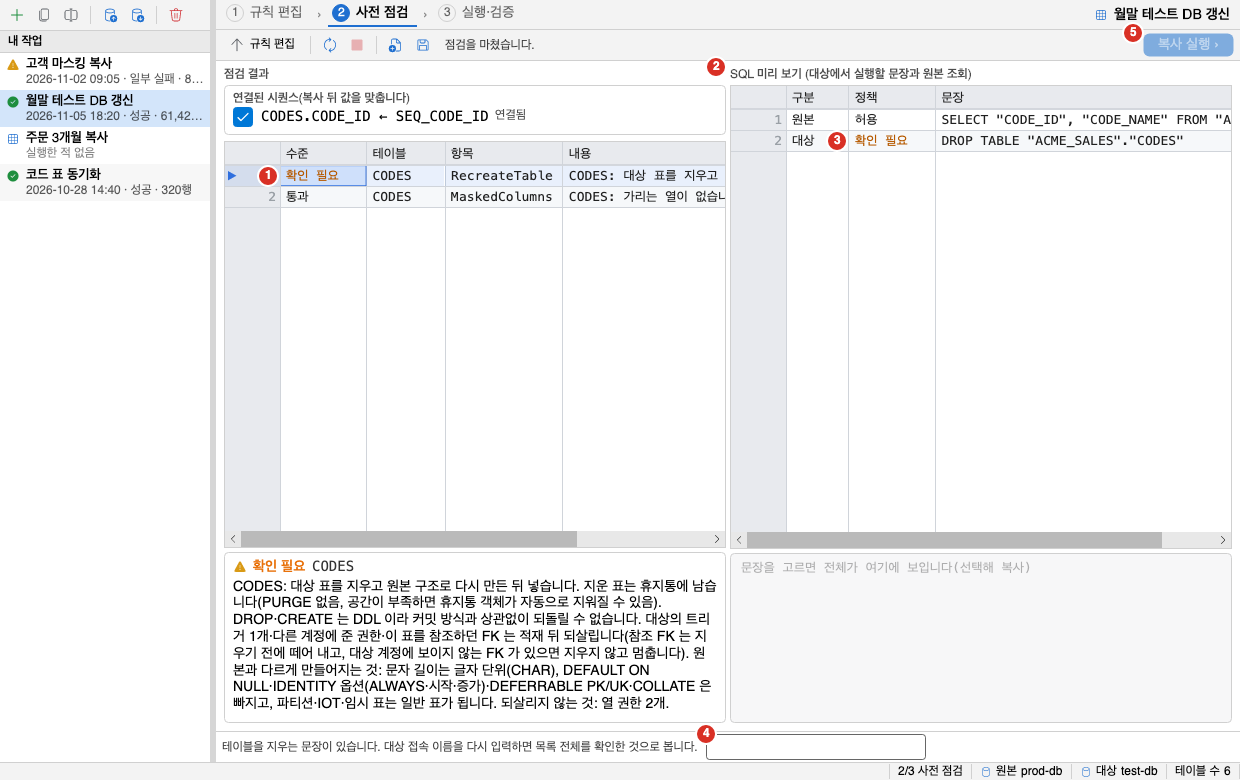
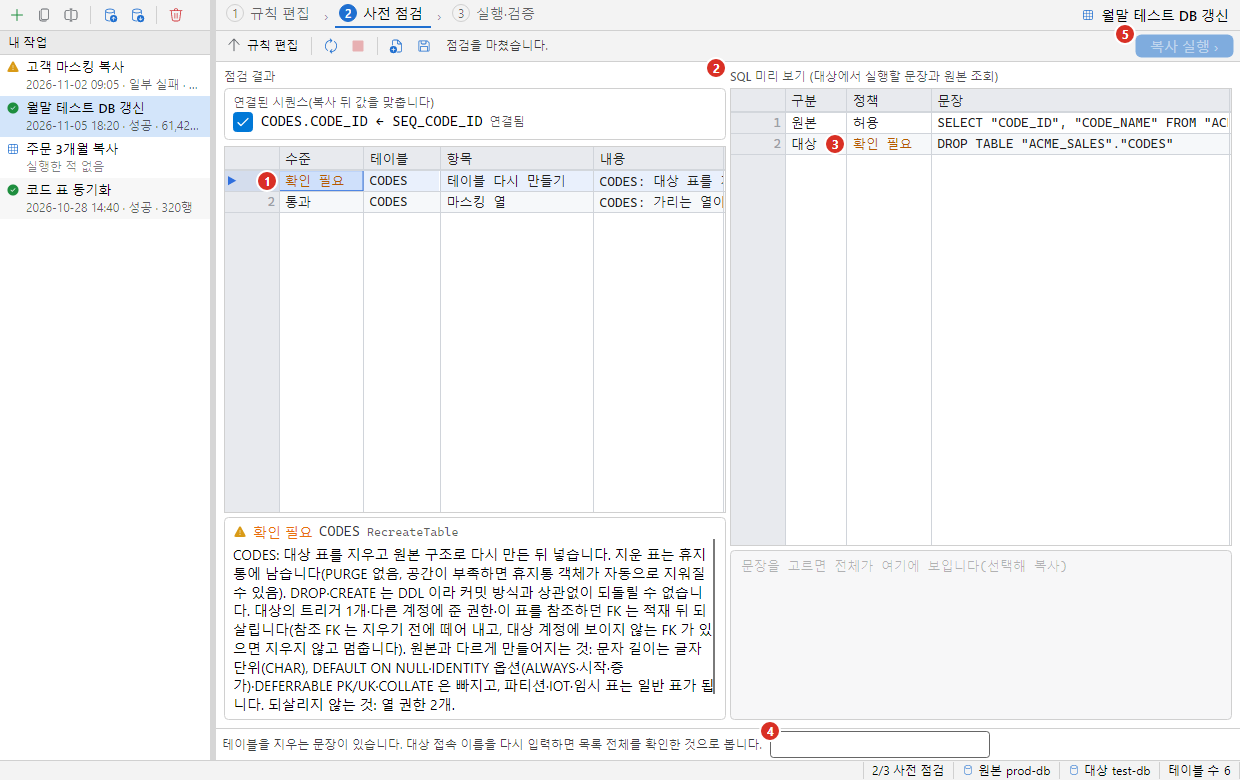
fix(copy-ui): show readable names in the precheck item column
The precheck grid's item column showed internal check codes such as
TargetTriggers. Show a readable name for each known code (English via
literals-en.json), keep unknown codes as they are, and show the code in
small text in the detail pane. Update the precheck and recreate manual
captures and the manual text.

Claude-Session: https://claude.ai/code/session_01M9hnLWJzPwtL7LMdmexJPM

diff --git a/src/Oranda.App/Features/DataCopy/PrecheckViewModel.cs b/src/Oranda.App/Features/DataCopy/PrecheckViewModel.cs
@@ -57,6 +57,37 @@ public sealed partial class SequenceLinkViewModel(SequenceRule rule, bool isLink
 /// <summary>점검 결과 한 줄.</summary>
 public sealed class CheckItemViewModel
 {
+    // PrecheckRules·CopyPrecheckService 가 만드는 CheckItem 코드 → 한국어 이름(영어는 Resources/literals-en.json).
+    private static readonly Dictionary<string, string> CodeNames = new(StringComparer.Ordinal)
+    {
+        ["ChildRowsMayBlock"] = "자식 행이 지우기를 막음",
+        ["ColumnNotInTarget"] = "대상에 없는 열",
+        ["FkCycle"] = "외래키 순환",
+        ["IdentityAlways"] = "IDENTITY 열",
+        ["MaskedColumns"] = "마스킹 열",
+        ["MaskOnKey"] = "키 열 마스킹",
+        ["NarrowerType"] = "대상 열이 좁음",
+        ["NoPrimaryKey"] = "기본키 없음",
+        ["ParentExcluded"] = "부모 표 제외",
+        ["ReadConsistency"] = "같은 시점 읽기",
+        ["RecreateBlocked"] = "다시 만들기 막힘",
+        ["RecreateNoPrivilege"] = "다시 만들기 권한 없음",
+        ["RecreateNotAllowed"] = "다시 만들기 쓸 수 없음",
+        ["RecreateTable"] = "테이블 다시 만들기",
+        ["RuleInvalid"] = "규칙 오류",
+        ["SameSourceTarget"] = "원본과 대상이 같음",
+        ["SequenceGap"] = "시퀀스",
+        ["SourceNoSelect"] = "원본 읽기 권한 없음",
+        ["TargetMissing"] = "대상 표 없음",
+        ["TargetNoWrite"] = "대상 쓰기 권한 없음",
+        ["TargetOnlyConstraint"] = "대상에만 있는 제약",
+        ["TargetProduction"] = "운영 대상",
+        ["TargetRequiredColumnMissing"] = "필수 열 값 없음",
+        ["TargetTriggers"] = "대상 트리거",
+        ["UnsupportedType"] = "지원하지 않는 형식",
+        ["WrongLengthDates"] = "날짜 길이 다름",
+    };
+
     public CheckItemViewModel(CheckItem item, IReadOnlyList<CheckChoiceViewModel> choices)
     {
         Item = item;
@@ -67,6 +98,9 @@ public sealed class CheckItemViewModel
         }
     }
 
+    /// <summary>점검 항목 코드 → 한국어 이름 표. 시험이 문구 표(영어)와 맞는지 본다.</summary>
+    public static IReadOnlyDictionary<string, string> CodeNameTable => CodeNames;
+
     public CheckItem Item { get; }
 
     public CheckLevel Level => Item.Level;
@@ -75,7 +109,11 @@ public sealed class CheckItemViewModel
 
     public string? Table => Item.Table;
 
+    /// <summary>점검 항목 코드(Oracle 점검이 정한 이름). 그리드에는 <see cref="CodeText"/> 를 보이고 코드는 상세 칸에 작게 남긴다.</summary>
     public string Code => Item.Code;
+
+    /// <summary>점검 항목의 사람이 읽는 이름(그리드 「항목」 칸). 모르는 코드면 코드 그대로. 영어 화면은 문구 표가 바꾼다.</summary>
+    public string CodeText => CodeNames.TryGetValue(Item.Code, out var name) ? name : Item.Code;
 
     public IReadOnlyList<CheckChoiceViewModel> Choices { get; }
 

diff --git a/tests/Oranda.App.Tests/Features/DataCopy/DataCopyRenderTests.cs b/tests/Oranda.App.Tests/Features/DataCopy/DataCopyRenderTests.cs
@@ -300,11 +300,11 @@ public sealed class DataCopyRenderTests : IDisposable
         var h = new DataCopyHarness();
         var items = new[]
         {
-            new CheckItem("ORDERS", "TRIGGERS", CheckLevel.Confirm, "대상 트리거 TRG_ORDERS 가 복사한 행에도 실행됩니다.") { Choices = [CheckChoice.DisableTriggers] },
-            new CheckItem("ORDER_ITEMS", "FK_CHILD", CheckLevel.Confirm, "대상의 자식 테이블이 이 테이블을 참조합니다(ORA-02292 예상). 대상 처리를 MERGE 로 바꾸세요.")
+            new CheckItem("ORDERS", "TargetTriggers", CheckLevel.Confirm, "대상 트리거 TRG_ORDERS 가 복사한 행에도 실행됩니다.") { Choices = [CheckChoice.DisableTriggers] },
+            new CheckItem("ORDER_ITEMS", "ChildRowsMayBlock", CheckLevel.Confirm, "대상의 자식 테이블이 이 테이블을 참조합니다(ORA-02292 예상). 대상 처리를 MERGE 로 바꾸세요.")
                 { Choices = [CheckChoice.SwitchToMerge] },
-            new CheckItem("CODES", "COLUMN_MISSING", CheckLevel.Error, "원본에 없는 NOT NULL 열 CODE_GRP 가 대상에 있습니다."),
-            new CheckItem(null, "READ", CheckLevel.Pass, "원본 SELECT 권한을 확인했습니다."),
+            new CheckItem("CODES", "TargetRequiredColumnMissing", CheckLevel.Error, "원본에 없는 NOT NULL 열 CODE_GRP 가 대상에 있습니다."),
+            new CheckItem(null, "ReadConsistency", CheckLevel.Pass, "예상 읽기 시간이 원본 UNDO_RETENTION 안에 끝납니다."),
         };
         var preview = new[]
         {
@@ -326,7 +326,12 @@ public sealed class DataCopyRenderTests : IDisposable
             Assert.False(window.FindControl<Button>("RunButton")!.IsEffectivelyEnabled); // 오류가 있어 꺼진다
             Assert.False(window.FindControl<Button>("ToPrecheckButton")!.IsEffectivelyVisible);
             Assert.Equal("ORDERS", vm.Precheck.SelectedItem?.Table); // 첫 「확인 필요」를 골라 상세 칸에 고를 거리가 보인다
-            Assert.Equal(4, window.FindControl<MonitorGrid>("CheckGrid")!.Model!.RowCount);
+            var checks = window.FindControl<MonitorGrid>("CheckGrid")!.Model!;
+            Assert.Equal(4, checks.RowCount);
+            // 「항목」 칸은 사람이 읽는 이름, 코드는 상세 칸에만.
+            var names = Enumerable.Range(0, 4).Select(r => checks.GetCellText(r, 2)).ToList();
+            Assert.Contains("대상 트리거", names);
+            Assert.DoesNotContain("TargetTriggers", names);
             AssertFillsWidth(window.FindControl<MonitorGrid>("SqlGrid")!);
             AssertNotClipped(window, "사전 점검");
             Shots(window, "2-precheck");

diff --git a/tests/Oranda.App.Tests/Features/DataCopy/PrecheckStepTests.cs b/tests/Oranda.App.Tests/Features/DataCopy/PrecheckStepTests.cs
@@ -21,6 +21,38 @@ public sealed class PrecheckStepTests
     private static CopySessions Sessions() => new(new FakeSession(), new FakeSession());
 
     [Fact]
+    public void Check_item_shows_readable_name_and_keeps_unknown_code()
+    {
+        var known = new CheckItemViewModel(new CheckItem("ORDERS", "TargetTriggers", CheckLevel.Confirm, "트리거"), []);
+        Assert.Equal("대상 트리거", known.CodeText);
+        Assert.Equal("TargetTriggers", known.Code); // 코드는 상세 칸에 남긴다
+
+        var unknown = new CheckItemViewModel(new CheckItem("ORDERS", "SomethingNew", CheckLevel.Pass, "새 점검"), []);
+        Assert.Equal("SomethingNew", unknown.CodeText);
+    }
+
+    [Fact]
+    public void Every_check_code_has_a_name_and_an_english_literal()
+    {
+        // Oracle 점검(PrecheckRules·CopyPrecheckService)이 만드는 코드를 소스에서 모아 이름 표와 맞춘다.
+        var dir = new DirectoryInfo(AppContext.BaseDirectory);
+        while (dir is not null && dir.GetFiles("Oranda.sln*").Length == 0)
+        {
+            dir = dir.Parent;
+        }
+
+        Assert.NotNull(dir);
+        var copyDir = Path.Combine(dir.FullName, "src", "Oranda.Oracle", "Transfer", "Copy");
+        var codes = Directory.GetFiles(copyDir, "*.cs")
+            .SelectMany(f => System.Text.RegularExpressions.Regex.Matches(File.ReadAllText(f), @"new CheckItem\([^,]+,\s*""(?<code>[A-Za-z]+)""").Select(m => m.Groups["code"].Value))
+            .ToHashSet(StringComparer.Ordinal);
+
+        Assert.NotEmpty(codes);
+        Assert.Empty(codes.Where(c => !CheckItemViewModel.CodeNameTable.ContainsKey(c)));
+        Assert.Empty(CheckItemViewModel.CodeNameTable.Values.Where(n => !Oranda.App.Features.Localization.LiteralTranslator.Table.ContainsKey(n)));
+    }
+
+    [Fact]
     public async Task Opening_job_whose_target_is_production_clears_target()
     {
         var h = new DataCopyHarness();

diff --git a/src/Oranda.App/Features/DataCopy/DataCopyWindow.Grids.cs b/src/Oranda.App/Features/DataCopy/DataCopyWindow.Grids.cs
@@ -45,7 +45,7 @@ public partial class DataCopyWindow
     [
         new(L("수준"), ColumnDataKind.Text, c => L(c.LevelText)),
         new(L("테이블"), ColumnDataKind.Text, c => c.Table),
-        new(L("항목"), ColumnDataKind.Text, c => c.Code),
+        new(L("항목"), ColumnDataKind.Text, c => L(c.CodeText)),
         new(L("내용"), ColumnDataKind.Text, c => OneLine(c.Message)),
     ];
 

diff --git a/site/src/content/docs/transfer/data-copy.md b/site/src/content/docs/transfer/data-copy.md
@@ -190,11 +190,11 @@ description: 한 접속의 표 데이터를 다른 접속으로 복사하는 방
 
 ![사전 점검 단계의 데이터 복사 창](../../../assets/screens/data-copy-precheck.png)
 
-1. 점검 결과 그리드. 「수준」, 「테이블」, 「항목」, 「내용」 칸입니다.
+1. 점검 결과 그리드. 「수준」, 「테이블」, 「항목」, 「내용」 칸입니다. 「항목」 칸에는 「대상 트리거」, 「자식 행이 지우기를 막음」처럼 점검 이름이 나옵니다.
 2. 연결된 시퀀스 목록. 작업에 연결한 시퀀스가 있을 때만 나옵니다.
 3. 오류 항목. 이 항목 때문에 **복사 실행**이 꺼져 있습니다.
 4. 확인 필요 항목. 점검을 마치면 첫 확인 필요 항목이 골라져 있습니다.
-5. 고른 항목의 상세 칸. 내용 전체와 선택지가 나옵니다. 그림의 체크는 복사 동안 트리거를 끕니다.
+5. 고른 항목의 상세 칸. 표 이름 옆에 점검 코드가 작게 나오고, 아래에 내용 전체와 선택지가 나옵니다. 그림의 체크는 복사 동안 트리거를 끕니다.
 6. SQL 미리 보기 그리드. 원본에서 읽을 조회, 대상에서 지우는 문장, 끄는 문장, 시퀀스를 소비하는 문장이 한 줄씩 나옵니다.
 7. 「정책」 칸의 「확인 필요」. 실행 정책이 확인을 요구하는 문장입니다.
 8. 고른 문장 전체. 글을 골라 복사할 수 있습니다.
@@ -203,7 +203,7 @@ description: 한 접속의 표 데이터를 다른 접속으로 복사하는 방
 
 ### 점검 결과
 
-항목은 오류, 확인 필요, 통과 순서로 나옵니다. 「수준」 칸의 글자색이 오류는 빨강, 확인 필요는 주황입니다. 그리드는 조회 결과 그리드처럼 정렬, 열 필터, 복사를 쓸 수 있습니다. 줄을 고르면 아래 상세 칸에 아이콘, 수준, 내용 전체, 선택지가 나옵니다. 다시 점검하면 앞서 고른 항목(같은 표, 같은 항목)을 다시 고릅니다.
+항목은 오류, 확인 필요, 통과 순서로 나옵니다. 「수준」 칸의 글자색이 오류는 빨강, 확인 필요는 주황입니다. 그리드는 조회 결과 그리드처럼 정렬, 열 필터, 복사를 쓸 수 있습니다. 줄을 고르면 아래 상세 칸에 아이콘, 수준, 표, 점검 코드(`TargetTriggers`처럼 작은 글자), 내용 전체, 선택지가 나옵니다. 점검 코드는 문의하거나 검색할 때 씁니다. 다시 점검하면 앞서 고른 항목(같은 표, 같은 항목)을 다시 고릅니다.
 
 | 수준 | 뜻 | 복사 실행 |
 |---|---|---|
